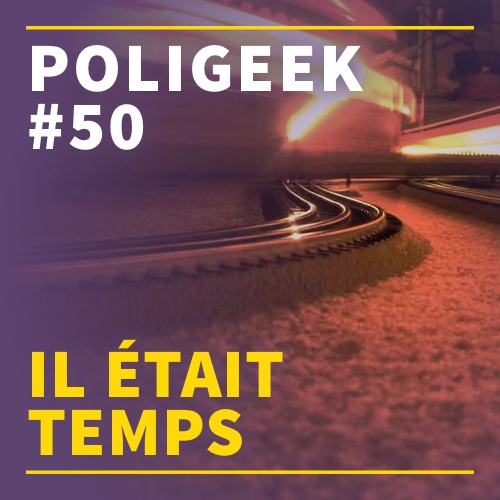
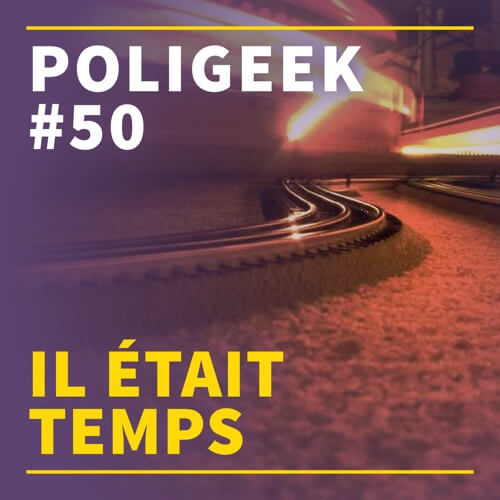
All covers

diff --git a/_layouts/default.html b/_layouts/default.html
@@ -30,19 +30,10 @@
 				<div class="row">
 					<div class="col-md-12">
 						<div class="subscribe">
-							<a href="https://itunes.apple.com/us/podcast/poligeek/id368413020" class="btn btn-default btn-podcast"><i class="el el-podcast"></i> S'abonner sur iTunes</a>
-							<a href="/podcast.xml" class="btn btn-default btn-rss"><i class="el el-rss"></i> Fil RSS</a>
-
-							<form action="//poligeek.us3.list-manage.com/subscribe/post?u=05db115c5700548f83414bb8a&amp;id=dd38bb7044" method="post" id="mc-embedded-subscribe-form" name="mc-embedded-subscribe-form" class="form-inline pull-right" novalidate>
-							  <div class="form-group">
-							    <label for="exampleInputEmail2" class="sr-only">Email</label>
-							    <input type="email" class="form-control" name="EMAIL" id="EMAIL" placeholder="Newsletter">
-
-									<div class="response" id="mce-error-response" style="display:none"></div>
-									<div class="response" id="mce-success-response" style="display:none"></div>
-							  </div>
-							  <button type="submit" class="btn btn-default">S'inscrire</button>
-							</form>
+							<div class="btn-group">
+								<a href="https://itunes.apple.com/us/podcast/poligeek/id368413020" class="btn btn-default btn-podcast"><i class="el el-podcast"></i> S'abonner sur iTunes</a>
+								<a href="/podcast.xml" class="btn btn-default btn-rss"><i class="el el-rss"></i> Fil RSS</a>
+							</div>
 						</div>
 					</div>
 				</div>

diff --git a/index.html b/index.html
@@ -11,7 +11,7 @@ title: Poligeek | Le podcast politique et tech
   {% endif %}
 		<div class="col-md-4">
 			<a class="show hvr-grow" href="{{ post.url }}">
-				<div class="show-cover" style="background: url('{{ site.baseurl }}images/covers/Jacquette{{ post.number }}.png') no-repeat center; background-size: cover;"></div>
+				<div class="show-cover" style="background: url('{{ site.baseurl }}images/covers/cover{{ post.number }}-small.jpg') no-repeat center; background-size: cover;"></div>
 			</a>
 		</div>
   {% if loopindex == 0 %}

diff --git a/css/style.css b/css/style.css
@@ -101,6 +101,11 @@ a.show {
 
 }
 
+.cover {
+	margin-left: auto;
+	margin-right: auto;
+}
+
 .covers-grid {
 	padding-top: 20px;
 	padding-bottom: 20px;
@@ -171,6 +176,10 @@ article.show p.date {
 	background-color: #FD6F26;
 	border-color: #FD6F26;
 	color: #FFF;
+}
+
+.panel-download {
+	margin-top: 40px;
 }
 
 .panel-download h2 {

diff --git a/_posts/2010-05-27-2.md b/_posts/2010-05-27-2.md
@@ -10,5 +10,11 @@ theme_debat:    "#2 - Le Capitaine des Bisounours"
 ---
 
 
-On y cause : # Des biocarburants # Des apéros "géants" et des autorités # D'un projet de loi d'éradication de l'anonymat des blogs non-professionels Et dans le "grand débat" : # La vie privée et la protection des données personnelles. Plus d'infos sur www.poligeek.fr
+On y cause :
 
+- Des biocarburants # Des apéros "géants" et des autorités
+- D'un projet de loi d'éradication de l'anonymat des blogs non-professionels
+
+Et dans le "grand débat" :
+
+- La vie privée et la protection des données personnelles.

diff --git a/_posts/2010-05-13-1.md b/_posts/2010-05-13-1.md
@@ -10,5 +10,11 @@ theme_debat:    "#1 - Les transitions de mauvais goût"
 ---
 
 
-On y cause : # South Park et la religion # "L’affaire Gizmodo" : le journalisme en question ? # Vers une augmentation du prix des forfaits internet Et dans le "grand débat" : # La démocratie à l’heure d’Internet Plus d'infos sur www.poligeek.fr
+On y cause :
 
+- South Park et la religion
+- "L’affaire Gizmodo" : le journalisme en question ?
+- Vers une augmentation du prix des forfaits internet
+
+Et dans le "grand débat" :
+- La démocratie à l’heure d’Internet

diff --git a/_posts/2010-04-22-0.md b/_posts/2010-04-22-0.md
@@ -10,5 +10,12 @@ theme_debat:    "#0 - Le ventilo du Captain Liban"
 ---
 
 
-On y cause : # Les scarabés et le Vatican # L’ACTA dévoilé # Couvre-feu sur les Meuporgs # SeedFuck Hadopi !? Et dans le "grand débat" : # Les droits d’auteurs et la rémunération des artistes Plus d'infos sur www.poligeek.fr
+On y cause :
 
+- Les scarabés et le Vatican
+- L’ACTA dévoilé # Couvre-feu sur les Meuporgs
+- SeedFuck Hadopi !?
+
+Et dans le "grand débat" :
+
+- Les droits d’auteurs et la rémunération des artistes

diff --git a/_posts/2010-07-16-5.md b/_posts/2010-07-16-5.md
@@ -10,5 +10,12 @@ theme_debat:    "#5 - A l'abordage !"
 ---
 
 
-On y cause : # De la neutralité du net # Du "retour" de Google en Chine # Du coût de la lutte contre le piratage Thème du grand débat : # Faut-il un parti des geeks/internautes/pirates ? Plus d'infos sur www.poligeek.fr
+On y cause :
 
+- De la neutralité du net
+- Du "retour" de Google en Chine
+- Du coût de la lutte contre le piratage
+
+Thème du grand débat :
+
+- Faut-il un parti des geeks/internautes/pirates ?

diff --git a/_posts/2010-06-24-4.md b/_posts/2010-06-24-4.md
@@ -10,5 +10,12 @@ theme_debat:    "#4 - L'internet du Futur"
 ---
 
 
-On y cause : # De la réforme des retraites # De l’europe et des moteurs de recherche # De l’Equipe de France Thème du grand débat : # Comment les politiques voient internet Plus d'infos sur www.poligeek.fr
+On y cause :
 
+- De la réforme des retraites
+- De l’europe et des moteurs de recherche
+- De l’Equipe de France
+
+Thème du grand débat :
+
+- Comment les politiques voient internet

diff --git a/_posts/2010-07-29-6.md b/_posts/2010-07-29-6.md
@@ -10,5 +10,13 @@ theme_debat:    "#6 - Souriez, vous êtes filmés"
 ---
 
 
-On y cause : # De jeux vidéos # Des roms # De l'anonymat sur le net # D'Hadopi Thème du grand débat : # La videosurveillance, ses enjeux, ses problèmes Plus d'infos sur www.poligeek.fr
+On y cause :
 
+- De jeux vidéos
+- Des roms
+- De l'anonymat sur le net
+- D'Hadopi
+
+Thème du grand débat :
+
+- La videosurveillance, ses enjeux, ses problèmes

diff --git a/_posts/2010-08-12-7.md b/_posts/2010-08-12-7.md
@@ -10,5 +10,12 @@ theme_debat:    "#7 - Verizon de nous censurer"
 ---
 
 
-On y cause : # Du racisme d’état # De "l’affaire" Blackberry # Du franglais Thème du grand débat : # La neutralité du net est-elle menacée ? Plus d'infos sur www.poligeek.fr
+On y cause :
 
+- Du racisme d’état
+- De "l’affaire" Blackberry
+- Du franglais
+
+Thème du grand débat :
+
+- La neutralité du net est-elle menacée ?

diff --git a/_posts/2010-06-09-3.md b/_posts/2010-06-09-3.md
@@ -10,5 +10,12 @@ theme_debat:    "#3 - L'informatique est aveugle ?"
 ---
 
 
-On y cause : # Des frontières de l’Europe # Des pirates # De Foxconn Thème du grand débat : # Le monde du logiciel libre Plus d'infos sur www.poligeek.fr
+On y cause :
 
+- Des frontières de l’Europe
+- Des pirates
+- De Foxconn
+
+Thème du grand débat :
+
+- Le monde du logiciel libre
